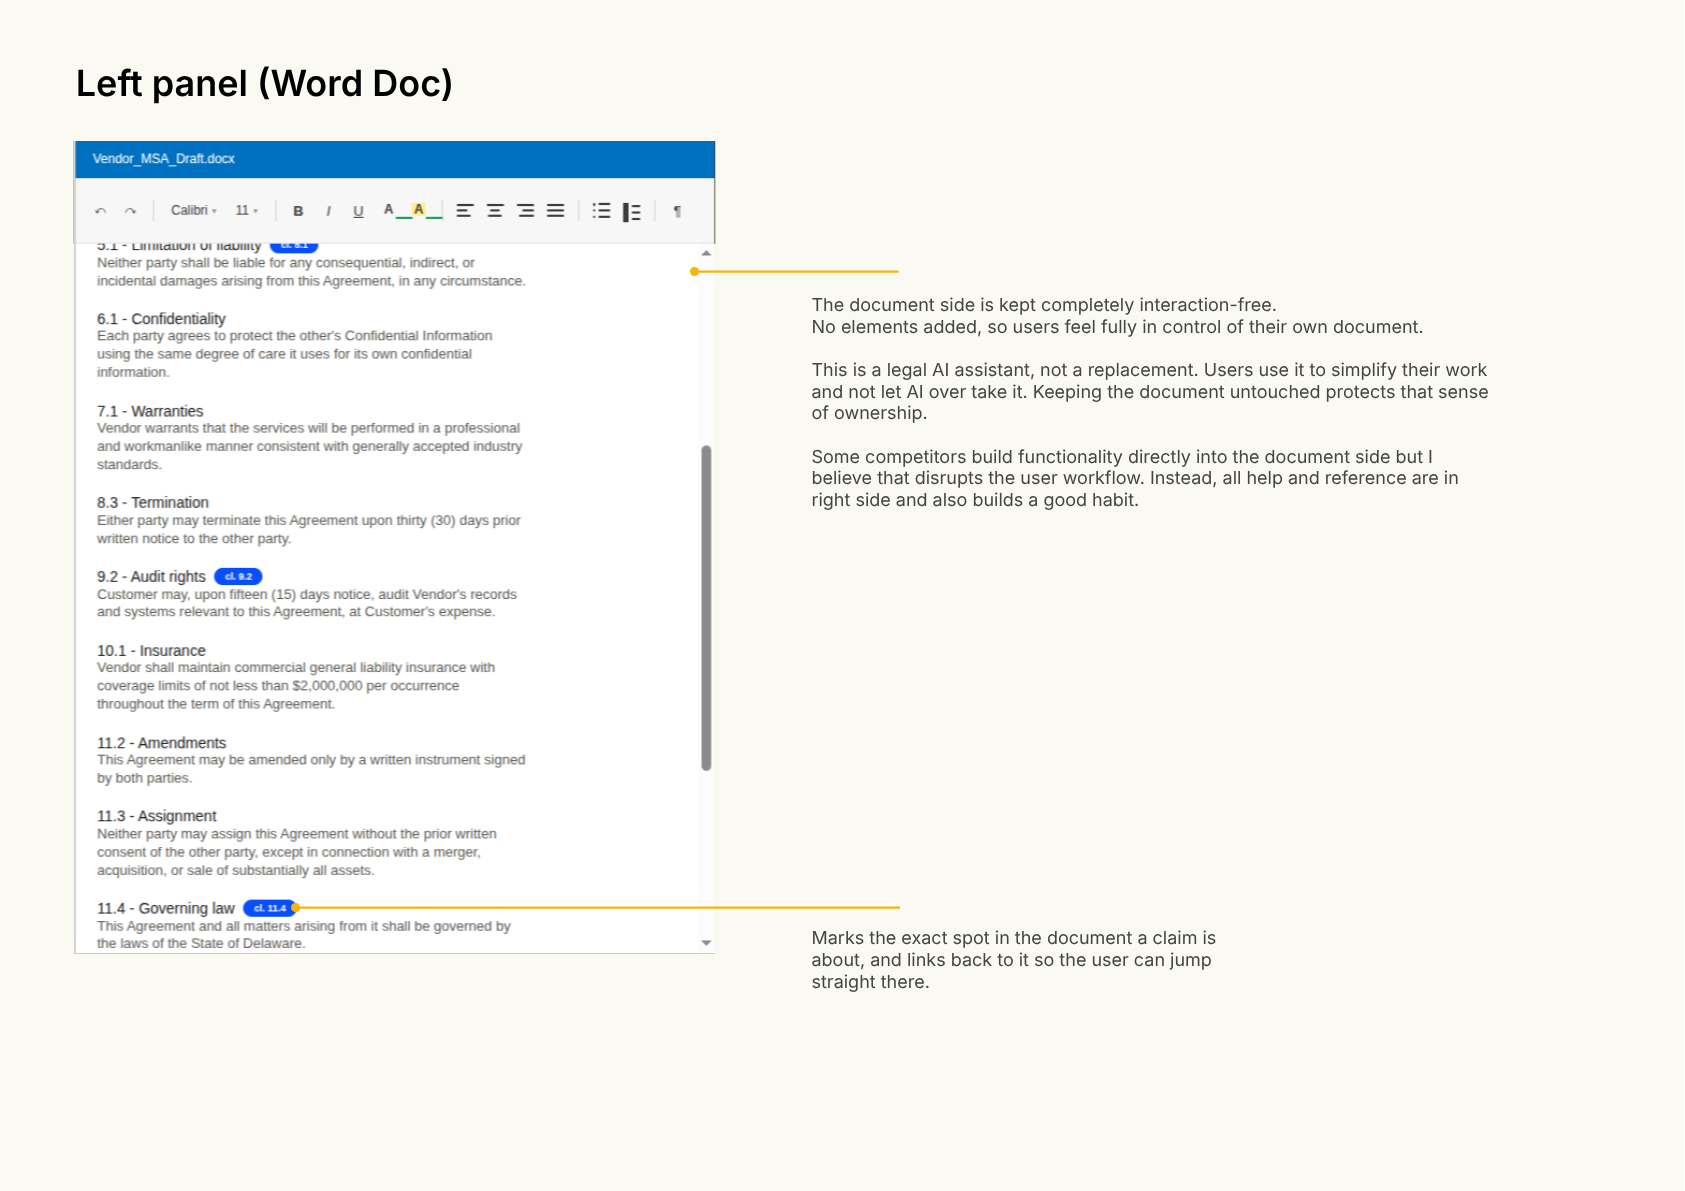
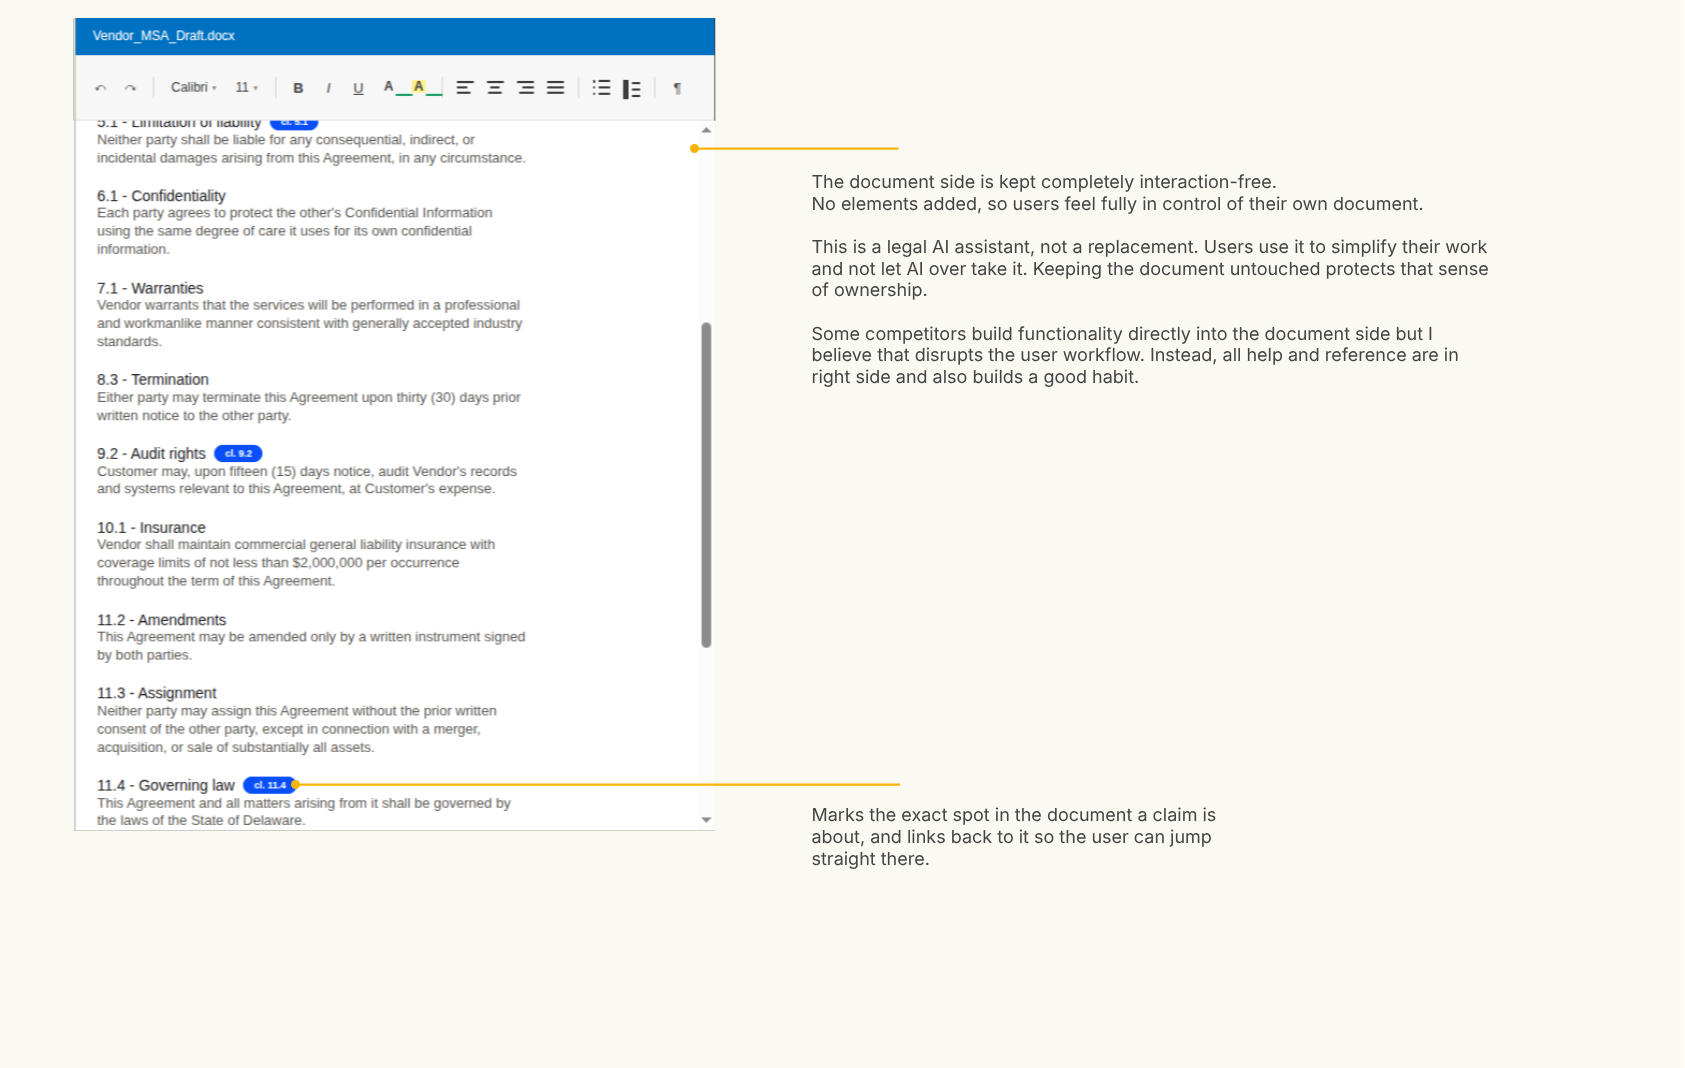
Polish Lexi prototype: tab title, spacing, rationale headings, image zoom
- Set the browser tab title to "Lexi interactive prototype"
- Add breathing room above the problem/scope section
- Match "Design rationale" heading style to the problem/scope headings
- Crop the redundant in-image titles off both rationale screenshots
- Make rationale images open in a lightbox to zoom, matching the
  case study pages' image viewer pattern

Claude-Session: https://claude.ai/code/session_011D8BuewcmoGXJkqjDhYr13

diff --git a/lexiprototype.html b/lexiprototype.html
@@ -3,14 +3,14 @@
 <head>
 <meta charset="UTF-8">
 <meta name="viewport" content="width=device-width, initial-scale=1.0">
-<title>Lexi — Playbook review, interactive</title>
+<title>Lexi interactive prototype</title>
 <link rel="preconnect" href="https://fonts.googleapis.com">
 <link href="https://fonts.googleapis.com/css2?family=Inter:wght@200;300;400;600&family=Inter+Tight:wght@400&family=Source+Sans+3:wght@400&display=swap" rel="stylesheet">
 <style>
   *{box-sizing:border-box; margin:0; padding:0;}
   body{font-family:sans-serif; background:#fafaf3; padding:140px 16px 32px;}
   .wrap{max-width:1200px; margin:0 auto;}
-  .brief{display:grid; grid-template-columns:1fr 1.3fr; column-gap:80px; padding:40px 0; border-bottom:1px solid #e0ded4; margin:0 0 48px;}
+  .brief{display:grid; grid-template-columns:1fr 1.3fr; column-gap:80px; padding:96px 0 40px; border-bottom:1px solid #e0ded4; margin:0 0 48px;}
   .brief-kicker{font-family:'Inter', sans-serif; font-size:24px; font-weight:600; color:#000; margin-bottom:20px;}
   .problem-statement{font-family:'Inter', sans-serif; font-size:22px; font-weight:300; color:#2a2a2a; line-height:1.6;}
   .scope p{font-family:'Inter', sans-serif; font-weight:300; font-size:17px; color:#2a2a2a; line-height:1.7; margin-bottom:20px;}
@@ -19,8 +19,16 @@
   .scope li::before{content:"—"; position:absolute; left:0; color:#c9c6ba;}
   @media (max-width:760px){ .brief{grid-template-columns:1fr; row-gap:32px;} }
   .rationale{margin-top:40px;}
-  .rationale h2{font-size:18px; font-weight:600; color:#22221f; margin-bottom:16px;}
-  .rationale img{width:100%; display:block; margin-bottom:24px;}
+  .rationale h2{font-family:'Inter', sans-serif; font-size:24px; font-weight:600; color:#000; margin-bottom:20px;}
+  .rationale button{display:block; width:100%; padding:0; border:none; background:none; cursor:zoom-in; margin-bottom:24px;}
+  .rationale img{width:100%; display:block; transition:opacity 0.15s ease;}
+  .rationale button:hover img{opacity:0.85;}
+
+  .lightbox{display:none; position:fixed; inset:0; background:rgba(20,20,20,0.9); z-index:100; align-items:center; justify-content:center; padding:40px 24px;}
+  .lightbox.open{display:flex;}
+  .lightbox img{max-width:100%; max-height:100%; border-radius:6px; display:block;}
+  .lightbox-close{position:absolute; top:24px; right:24px; width:40px; height:40px; border-radius:999px; border:none; background:rgba(255,255,255,0.15); color:#fff; font-size:20px; line-height:1; cursor:pointer;}
+  .lightbox-close:hover{background:rgba(255,255,255,0.28);}
   .frame{display:flex; width:1040px; height:760px; margin:0 auto; background:#FFFFFF; overflow:hidden; border:1px solid #b8b6ae; box-shadow:0 1px 3px rgba(0,0,0,0.08);}
 
   /* ===== Document pane — exact flex values from Penpot ===== */
@@ -276,9 +284,14 @@
 
   <div class="rationale">
     <h2>Design rationale</h2>
-    <img src="tool-overview.png" alt="Tool overview — annotated walkthrough of the playbook review panel">
-    <img src="left-panel-word-doc.png" alt="Left panel — annotated walkthrough of the Word document pane">
+    <button type="button" onclick="openLightbox('tool-overview.png')"><img src="tool-overview.png" alt="Tool overview — annotated walkthrough of the playbook review panel"></button>
+    <button type="button" onclick="openLightbox('left-panel-word-doc.png')"><img src="left-panel-word-doc.png" alt="Left panel — annotated walkthrough of the Word document pane"></button>
   </div>
+</div>
+
+<div class="lightbox" id="lightbox" onclick="closeLightbox(event)">
+  <button type="button" class="lightbox-close" onclick="closeLightbox(event)">&times;</button>
+  <img id="lightbox-img" src="" alt="Design rationale, full view">
 </div>
 
 <script>
@@ -504,6 +517,23 @@ function highlightItem(id, on){
 }
 
 render();
+
+function openLightbox(src){
+  document.getElementById('lightbox-img').src = src;
+  document.getElementById('lightbox').classList.add('open');
+}
+function closeLightbox(e){
+  if(e.target.id === 'lightbox' || e.target.classList.contains('lightbox-close')){
+    document.getElementById('lightbox').classList.remove('open');
+    document.getElementById('lightbox-img').src = '';
+  }
+}
+document.addEventListener('keydown', function(e){
+  if(e.key === 'Escape'){
+    document.getElementById('lightbox').classList.remove('open');
+    document.getElementById('lightbox-img').src = '';
+  }
+});
 </script>
 </body>
 </html>
